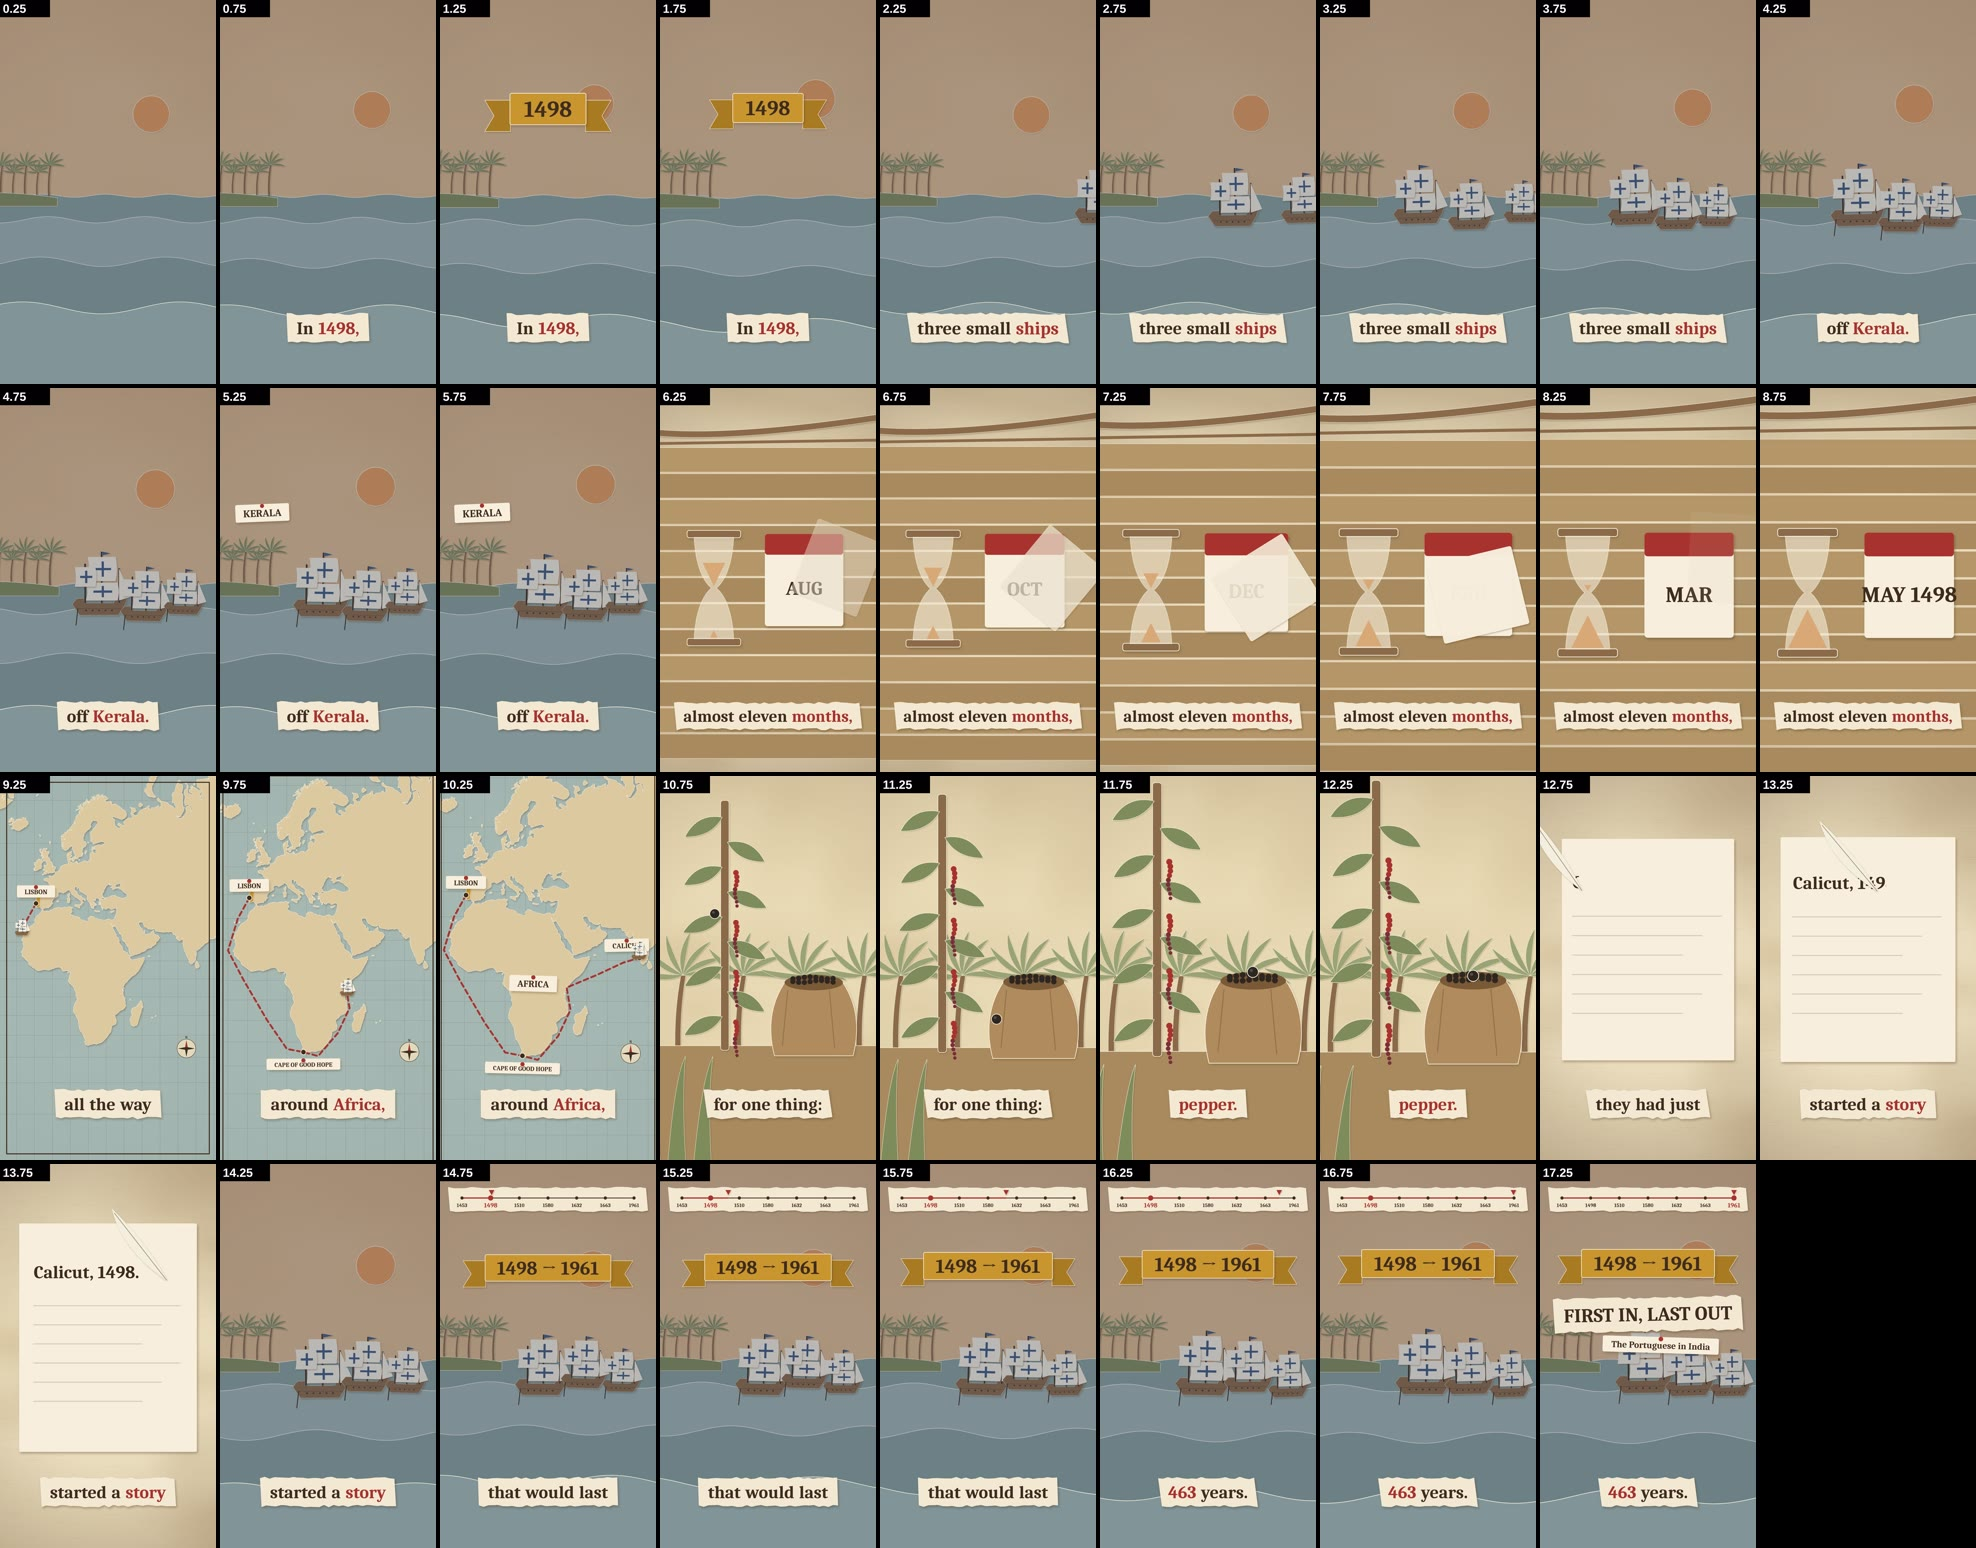
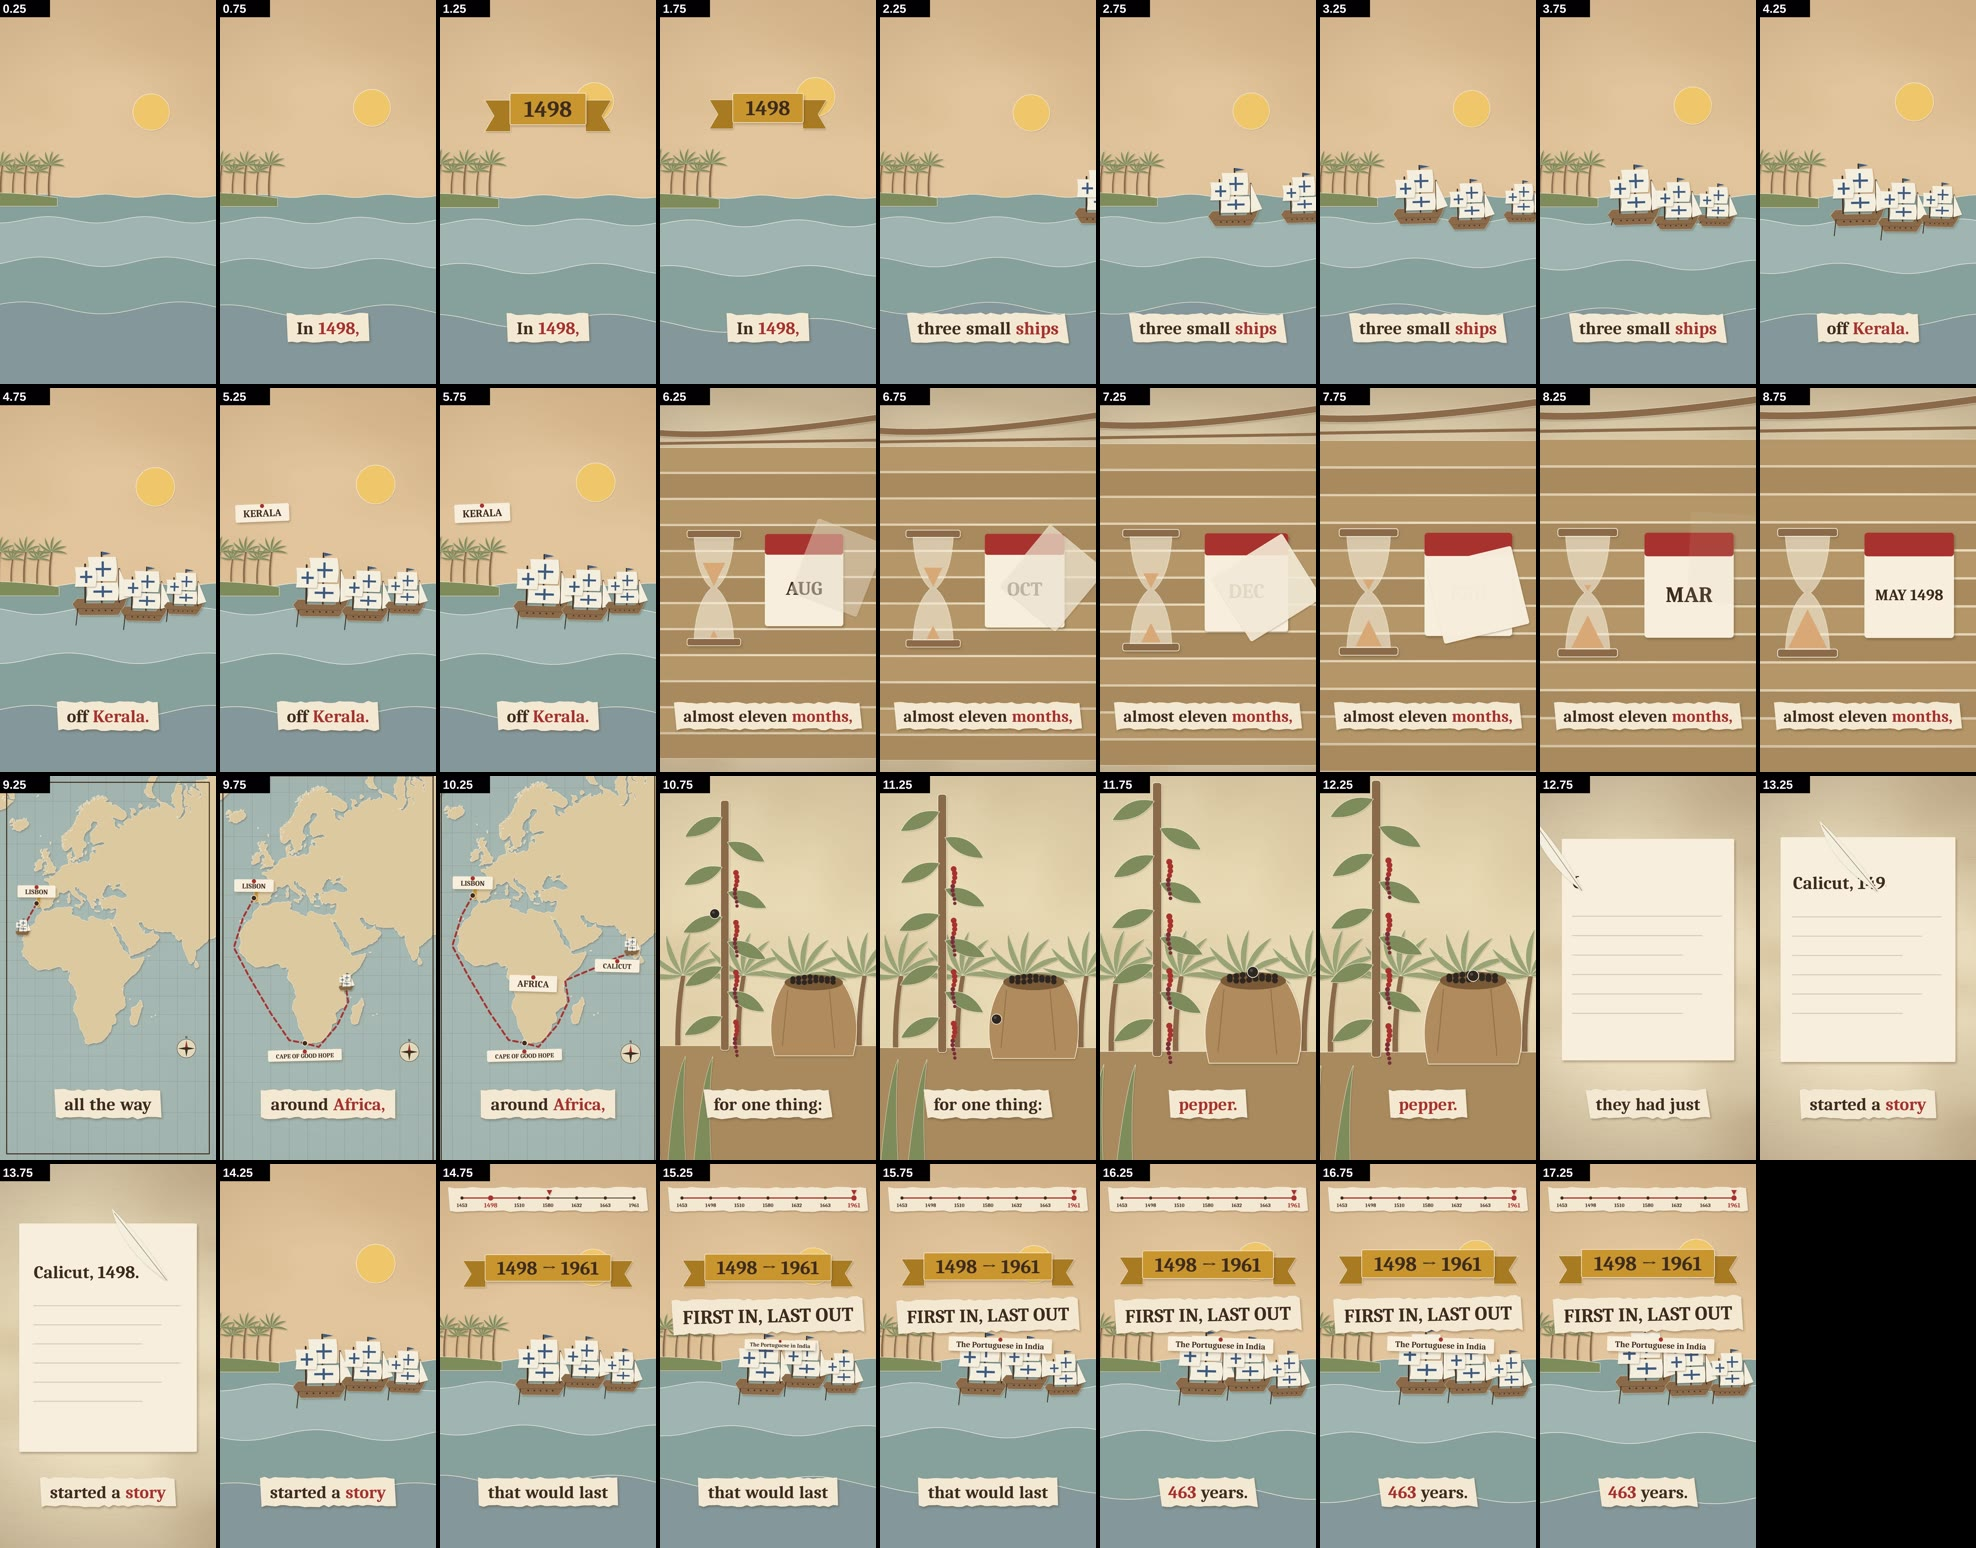
Pilot: split long CH2 lines into two shots, chapter sheets
Claude-Session: https://claude.ai/code/session_01GgesWfnMJhZVKsYSn1oaz4

diff --git a/portuguese-in-india/src/chapters/ch2_calicut.js b/portuguese-in-india/src/chapters/ch2_calicut.js
@@ -118,7 +118,14 @@ export default function (B) {
       sails(pr, t, { show });
       [['ARABS', 'HORMUZ', w[1]], ['INDIANS', 'CALICUT', w[0]], ['AFRICANS', 'MALINDI', w[2]], ['CHINESE', 'MALACCA', w[3]]].forEach(([tx, pl, a]) => { if (lt > a) K.pin(pr, pl, { text: tx, side: pl === 'MALACCA' ? 'up' : 'down', sc: eob(seg(lt, a, a + 0.3)), size: 36 }); });
     } });
-    cue(st, 'whoosh', { gain: 0.6 }); w.forEach((a) => cue(st + a, 'pop', { gain: 0.45 })); }
+    cue(st, 'whoosh', { gain: 0.6 }); w.forEach((a) => cue(st + a, 'pop', { gain: 0.45 }));
+    // second cut inside the long line: push in on the western ocean as Africans and Chinese join
+    const s2 = st + w[2] - 0.08;
+    add({ id: 'C2i2', ch, at: s2, year: 1498, note: 'closer: African and Chinese sails join the shared ocean', draw(lt, d, t) {
+      const L0 = lt + (s2 - st), pr = K.realMap(K.lerpView(K.VIEWS.ocean, { lon: 71, lat: 8, w: 70 }, eio(clamp(lt / 0.6))));
+      sails(pr, t, { show: [w[1], w[0], w[2], w[3]].map((a) => clamp((L0 - a + 0.1) / 0.35)) });
+      [['ARABS', 'HORMUZ', w[1]], ['INDIANS', 'CALICUT', w[0]], ['AFRICANS', 'MALINDI', w[2]], ['CHINESE', 'MALACCA', w[3]]].forEach(([tx, pl, a]) => { if (L0 > a) K.pin(pr, pl, { text: tx, side: pl === 'MALACCA' ? 'up' : 'down', sc: L0 - a < 0.3 ? eob(seg(L0, a, a + 0.3)) : 1, size: 36 }); });
+    } }); }
 
   // 9 · had shared this ocean by unwritten rules: : trade lanes criss-cross (ink dashes, no flags)
   { const i = I(9), st = cut_(i);
@@ -152,9 +159,16 @@ export default function (B) {
       const c = K.cam(lt, d, { x: 30 }, { x: -30, zoom: 1.04 });
       K.seascape({ t, c, night: 0.5, horizon: 960, sunX: 220, sunY: 470,
         mid: (tt) => { const x = lerp(820, 330, eio(clamp(lt / d))), y = K.waveY(x, 1080, tt, { amp: 16, len: 0.013, speed: 0.9, phase: 1 }) + 20; ctx.save(); ctx.translate(x, y); ctx.scale(-1, 1); K.caravel(0, 0, 0.7, tt); for (let k = 0; k < 5; k++) K.sack(-120 + k * 50, -60 - (k % 2) * 30, 0.22, { open: false }); ctx.restore(); } });
-      if (lt > fo) { K.slip('A FORTUNE', 540, 440, eob(seg(lt, fo, fo + 0.3)), 0.03, 56); }
     } });
-    cue(st, 'whoosh', { gain: 0.6 }); cue(st, 'creak', { gain: 0.5 }); cue(st + fo, 'coins', { dur: 0.8, gain: 0.6 }); }
+    cue(st, 'whoosh', { gain: 0.6 }); cue(st, 'creak', { gain: 0.5 }); cue(st + fo, 'coins', { dur: 0.8, gain: 0.6 });
+    // second cut: the cargo close-up (sacks of pepper piled on deck)
+    const s2 = st + Wd('cargo', i) - st - 0.08;
+    add({ id: 'C2m2', ch, at: s2, note: 'deck close-up: sacks of pepper piled high, A FORTUNE slip on "fortune"', draw(lt, d, t) {
+      const c = K.cam(lt, d, { zoom: 1.08 }, { zoom: 1.0 }), f2 = fo - (s2 - st);
+      K.layer(c, 0.3, () => { K.sky(0.5, 500, 260); for (let k = 0; k < 10; k++) K.cut(K.P_rr(-60, 1000 + k * 110, W + 120, 100, 0), k % 2 ? '#A88A5E' : '#B49668', { shadow: 0.2, edge: 3 }); });
+      K.layer(c, 1.0, () => { [[300, 1400, 1.1], [620, 1420, 1.15], [460, 1180, 1.0], [800, 1200, 0.95]].forEach(([x, y, s], k) => K.sack(x, y, s * eob(clamp((lt - k * 0.12) / 0.35)), { open: k === 2 })); });
+      if (lt > f2) K.slip('A FORTUNE', 540, 520, eob(seg(lt, f2, f2 + 0.3)), 0.03, 64);
+    } }); }
 
   // 13 · because pepper that cost little in Kerala : the scale, one sack vs two coins
   { const i = I(13), st = cut_(i), li = Wd('little', i) - st;
